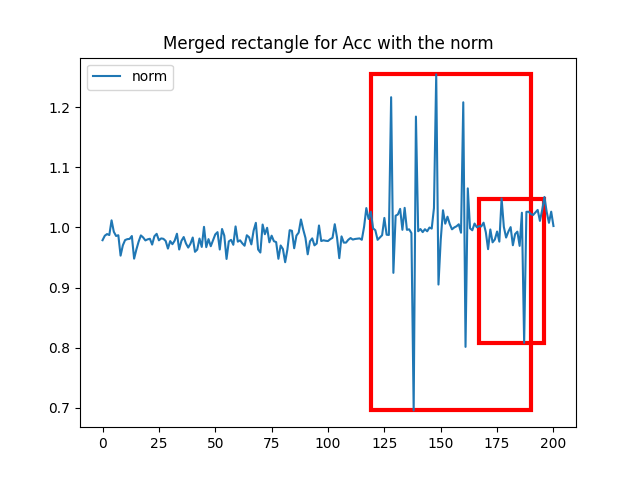
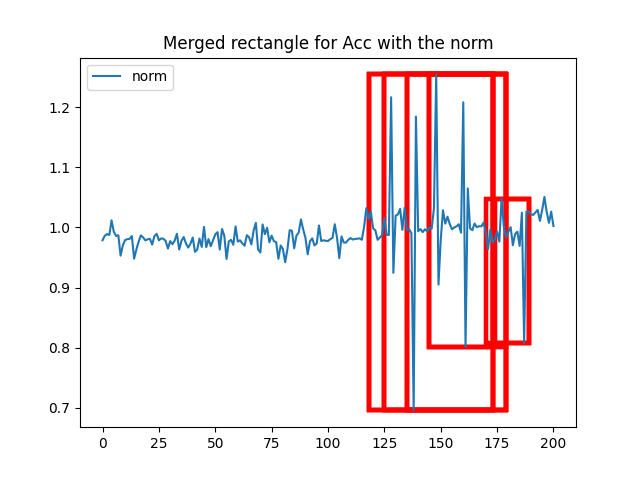
fix the rectangle extraction for the overlapping rectangles

Changed region(s): [[0.5625, 0.125, 0.875, 0.875]]

diff --git a/signalUtils.py b/signalUtils.py
@@ -52,15 +52,18 @@ def all_calculations(downsampled_x_accel, downsampled_y_accel, downsampled_z_acc
     
     return start_xaccel, end_xaccel, start_yaccel, end_yaccel, start_zaccel, end_zaccel
 
-def rectangle_extraction(x_coordinates, y_coordinates, z_coordinates, x_accel, y_accel, z_accel):
+def rectangle_extraction(x_coordinates, y_coordinates, z_coordinates, x_accel, y_accel, z_accel, type):
         movement_ranges = []
 
         for x_start, x_end in x_coordinates:
                 for y_start, y_end in y_coordinates:
                         for z_start, z_end in z_coordinates:
-                        # Check if at least 2 axes has crossing rectangles
-                                if (x_end >= y_start and y_end >= x_start) and (x_end >= z_start and z_end >= x_start):
-                                        movement_ranges.append(((x_start, x_end), (y_start, y_end), (z_start, z_end)))
+                        # Check if at least 2 axes have crossing rectangles
+                                if (x_end > y_start or y_end > x_start) and (x_end > z_start or z_end > x_start):
+                                        # Determine the overlapping range
+                                        overlapping_start = max(x_start, y_start, z_start)
+                                        overlapping_end = min(x_end, y_end, z_end)
+                                        movement_ranges.append(((overlapping_start, overlapping_end), (y_start, y_end), (z_start, z_end)))
 
         x = []
         y = []
@@ -69,7 +72,7 @@ def rectangle_extraction(x_coordinates, y_coordinates, z_coordinates, x_accel, y
                 x.append(x_range)
                 y.append(y_range)
                 z.append(z_range)
-                print(f"X: {x_range}  Y: {y_range}  Z: {z_range}")
+                #print(f"X: {x_range}  Y: {y_range}  Z: {z_range}")
 
         new_start = []
         new_end = []
@@ -91,8 +94,8 @@ def rectangle_extraction(x_coordinates, y_coordinates, z_coordinates, x_accel, y
                 rect = Rectangle((new_start[i], min_y), new_end[i] - new_start[i], max_y - min_y, fill=False, edgecolor="blue", linewidth=3)
                 ax.add_patch(rect)
         plt.legend()
-        plt.title(f"Merged rectangle for Acc with x, y and z channels")
-        plt.savefig(f"./images_saved/Merged_rectangles_Acc.png")
+        plt.title(f"Merged rectangle for {type} with x, y and z channels")
+        plt.savefig(f"./images_saved/Merged_rectangles_{type}.png")
         plt.show()
 
         _, ax = plt.subplots()
@@ -110,6 +113,6 @@ def rectangle_extraction(x_coordinates, y_coordinates, z_coordinates, x_accel, y
                 rect = Rectangle((new_start[i], min_y), new_end[i] - new_start[i], max_y - min_y, fill=False, edgecolor="red", linewidth=3)
                 ax.add_patch(rect)
         plt.legend()
-        plt.title(f"Merged rectangle for Acc with the norm")
-        plt.savefig(f"./images_saved/Merged_rectangles_Acc_norm.png")
+        plt.title(f"Merged rectangle for {type} with the norm")
+        plt.savefig(f"./images_saved/Merged_rectangles_{type}_norm.png")
         plt.show()

diff --git a/main.py b/main.py
@@ -11,11 +11,11 @@ if __name__ == "__main__":
                 "data/our_datas/non_gesture/Non-gesture_8_Lea.csv")
 
         # PARAMETERS FOR THE REST OF THE CODE
-        window_size = 20  # Size of the moving window for computing mean and standard deviation
+        window_size = 5  # Size of the moving window for computing mean and standard deviation
         envelopp_multiplier = 3  # Multiplier for the standard deviation to determine the envelopp
-        threshold_multiplier = 0.7 # if too low (<0.4), detection check shows ungesture instead of gesture, if too high, gesture are too much segmented
+        threshold_multiplier = 0.5 # if too low (<0.4), detection check shows ungesture instead of gesture, if too high, gesture are too much segmented
 
-        sigma = 1
+        sigma = 0.1
 
         # SEGMENTATION
         start_xaccel, end_xaccel, start_yaccel, end_yaccel, start_zaccel, end_zaccel = SIGNAL.all_calculations(
@@ -30,12 +30,18 @@ if __name__ == "__main__":
 
 
         # MERGED RECTANGLES
-        segment_start_indices = [start_xaccel, start_yaccel, start_zaccel]
-        segment_end_indices = [end_xaccel, end_yaccel, end_zaccel]
+        x_coordinates_accel = list(zip(start_xaccel, end_xaccel))
+        y_coordinates_accel = list(zip(start_yaccel, end_yaccel))
+        z_coordinates_accel = list(zip(start_zaccel, end_zaccel))
 
-        x_coordinates = list(zip(start_xaccel, end_xaccel))
-        y_coordinates = list(zip(start_yaccel, end_yaccel))
-        z_coordinates = list(zip(start_zaccel, end_zaccel))
+        SIGNAL.rectangle_extraction(x_coordinates_accel, y_coordinates_accel, z_coordinates_accel,
+                                    x_accel, y_accel, z_accel,
+                                    "acceleration")
 
-        SIGNAL.rectangle_extraction(x_coordinates, y_coordinates, z_coordinates,
-                                    x_accel, y_accel, z_accel)
+        x_coordinates_gyros = list(zip(start_xgyros, end_xgyros))
+        y_coordinates_gyros = list(zip(start_ygyros, end_ygyros))
+        z_coordinates_gyros = list(zip(start_zaccel, end_zgyros))
+
+        SIGNAL.rectangle_extraction(x_coordinates_gyros, y_coordinates_gyros, z_coordinates_gyros,
+                                    x_gyros, y_gyros, z_gyros,
+                                    "gyroscope")
